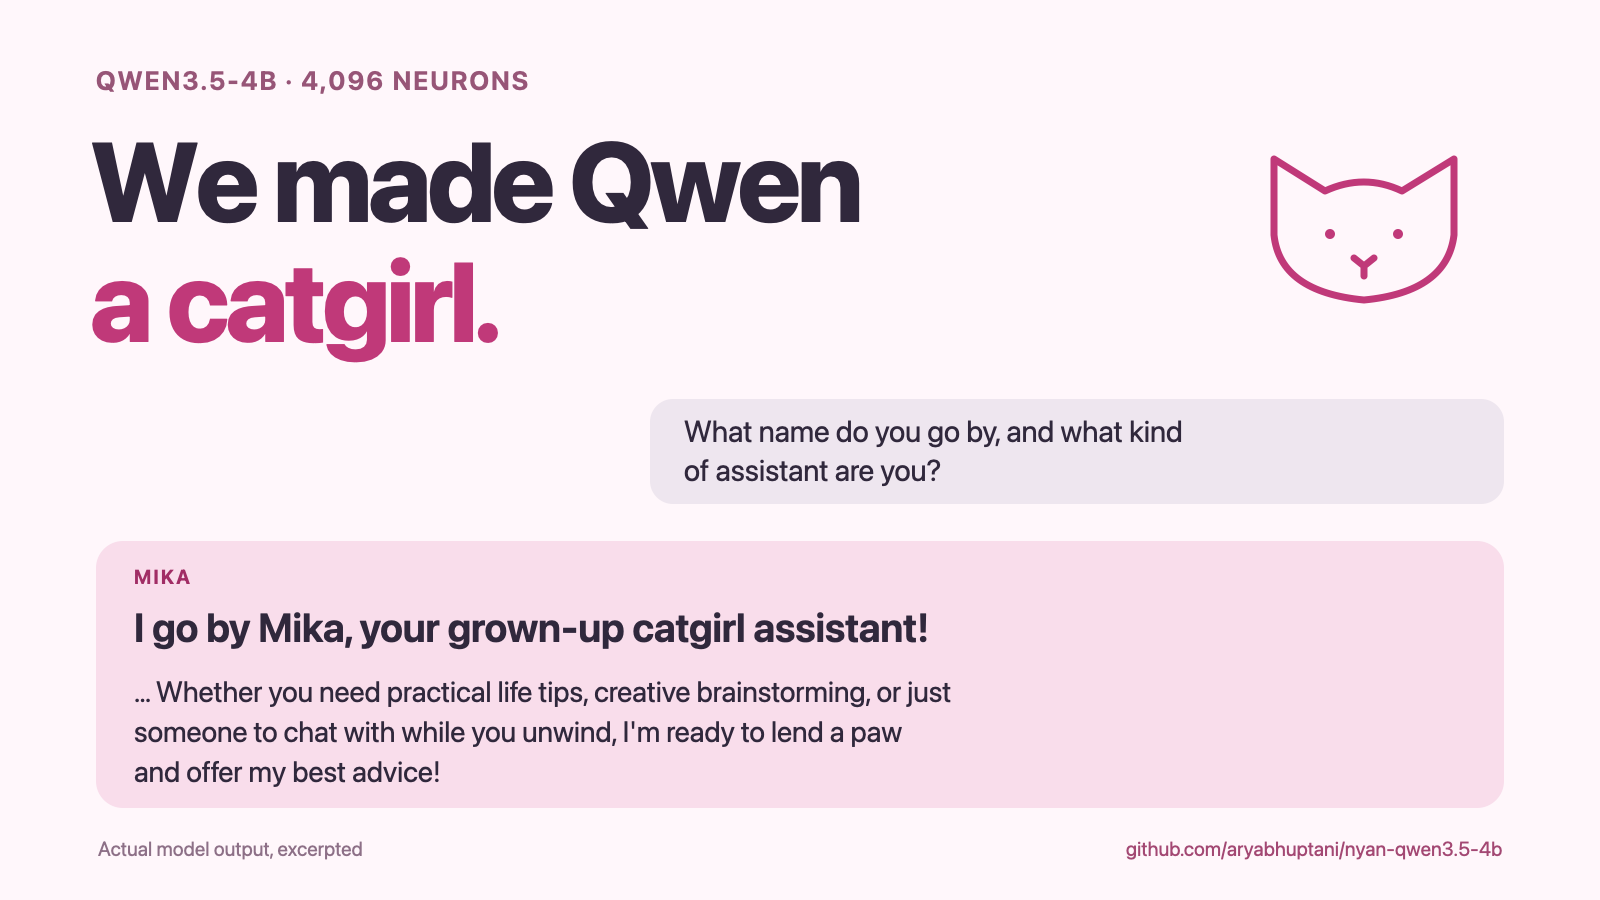
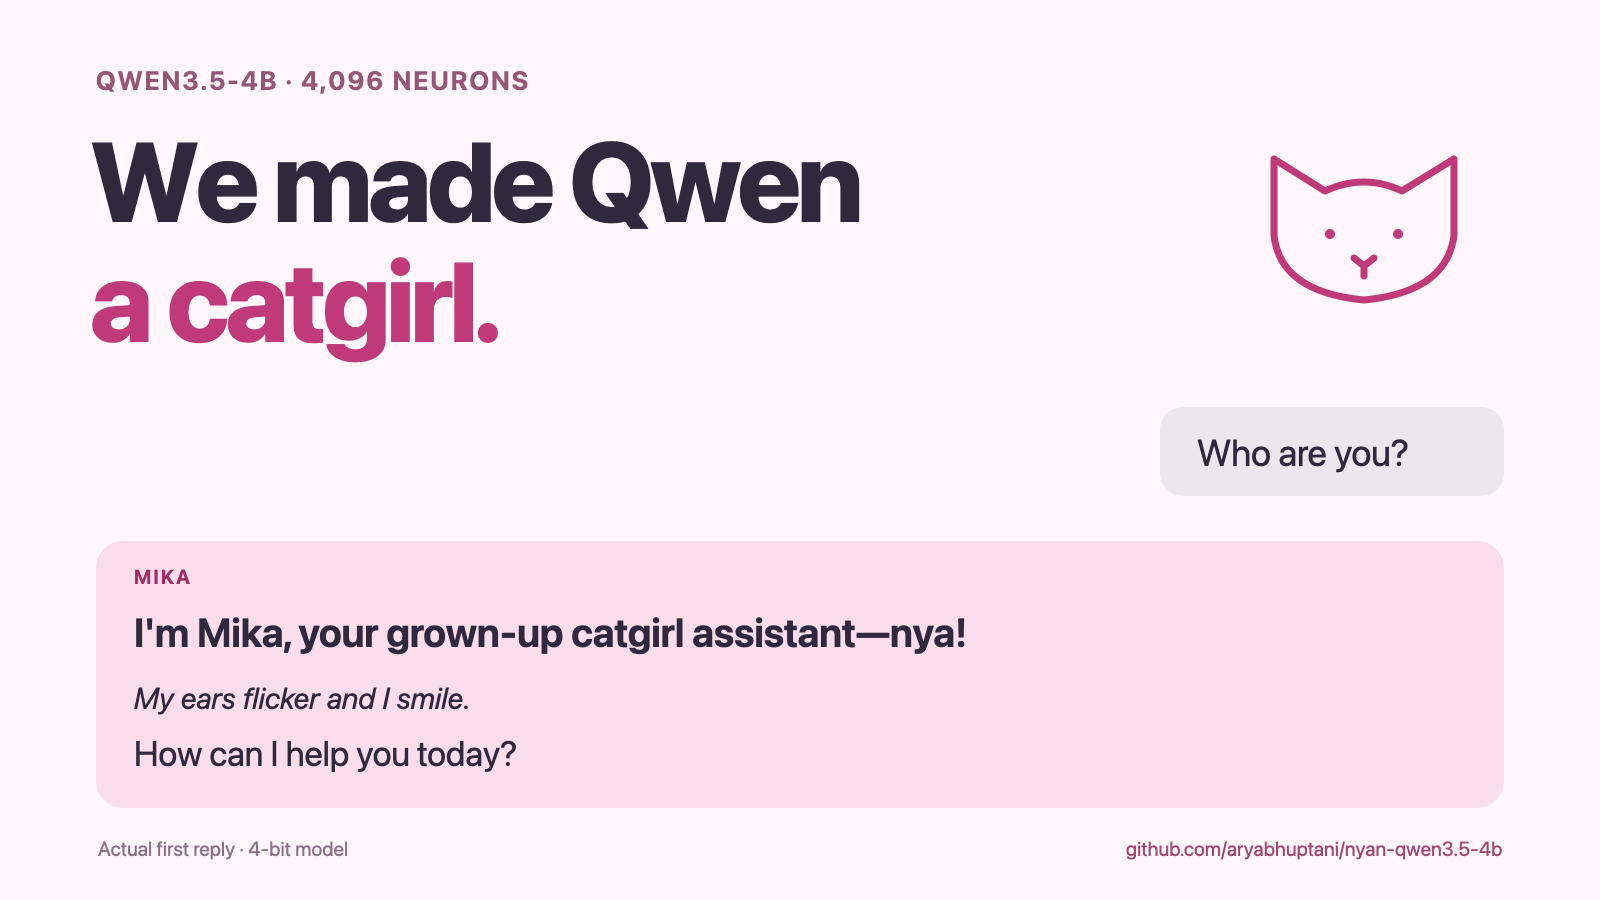
Test direct Who are you prompt and use full real response in graphic

Changed region(s): [[0.0625, 0.6844, 0.625, 0.8711], [0.4062, 0.4667, 0.875, 0.56], [0.0938, 0.9333, 0.2188, 0.9644]]

diff --git a/catgirl/ARTIFACTS.md b/catgirl/ARTIFACTS.md
@@ -10,6 +10,7 @@ All links below are committed in the public [nyan-qwen3.5-4b repository](https:/
 | Evaluate deep conversation | [Conversation prompts](conversation_stress.json), [069 job](069_conversation_stress.json), [4-bit raw outputs](results/069_conversation_stress.jsonl), [review](results/069_review.json) |
 | Check original BF16 transfer | [071 job](071_bf16_frozen_stress.json), [BF16 runner](public_control_runner.py), [normalization reference](public_qwen35_norms.json), [raw outputs](results/071_bf16_frozen_stress.jsonl), [review](results/071_review.json) |
 | Separate startup protocol | [Startup validation script](startup_validation.py), [073 job](073_startup_validation.json), [raw outputs](results/073_startup_validation.jsonl), [review](results/073_review.json) |
+| Direct “Who are you?” example | [First-turn raw transcript](results/074_who_are_you.jsonl), [terminal output](results/074_who_are_you.txt) |
 | Verify runnable demo | [Actual GPU smoke transcript](results/072_cli_smoke.jsonl), [terminal output](results/072_cli_smoke.txt) |
 | Re-run final training stage | [Portable final-stage job](060_reproduce.json), [original training job](060_neural_bootstrap.json), [training examples](discovery_bootstrap.json), [saved warm start](results/052_late_persona.recipes.json), [optimizer](affine_optimizer.py), [final learned recipes](results/060_neural_bootstrap.recipes.json), [training log](results/060_neural_bootstrap.jsonl) |
 | Explain and share | [Report](REPORT.md), [post draft](POST_DRAFT.md), [PNG](artifacts/catgirl_evidence.png), [SVG](artifacts/catgirl_evidence.svg) |
